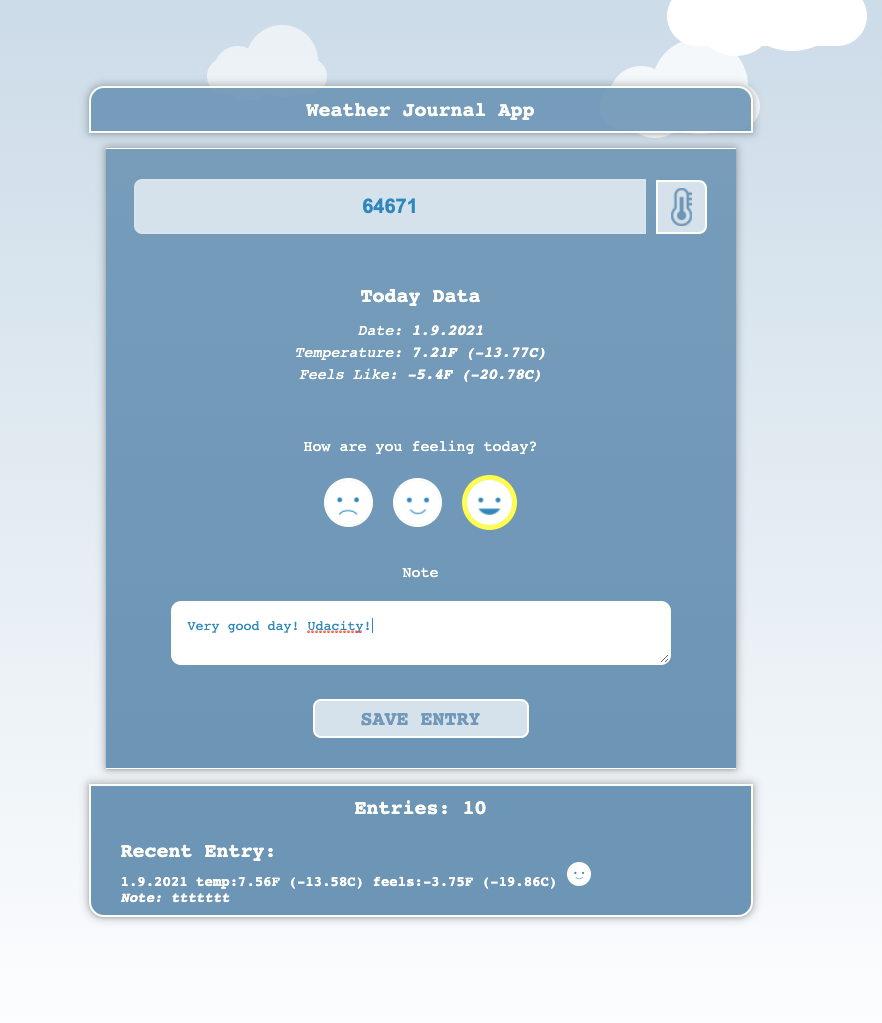
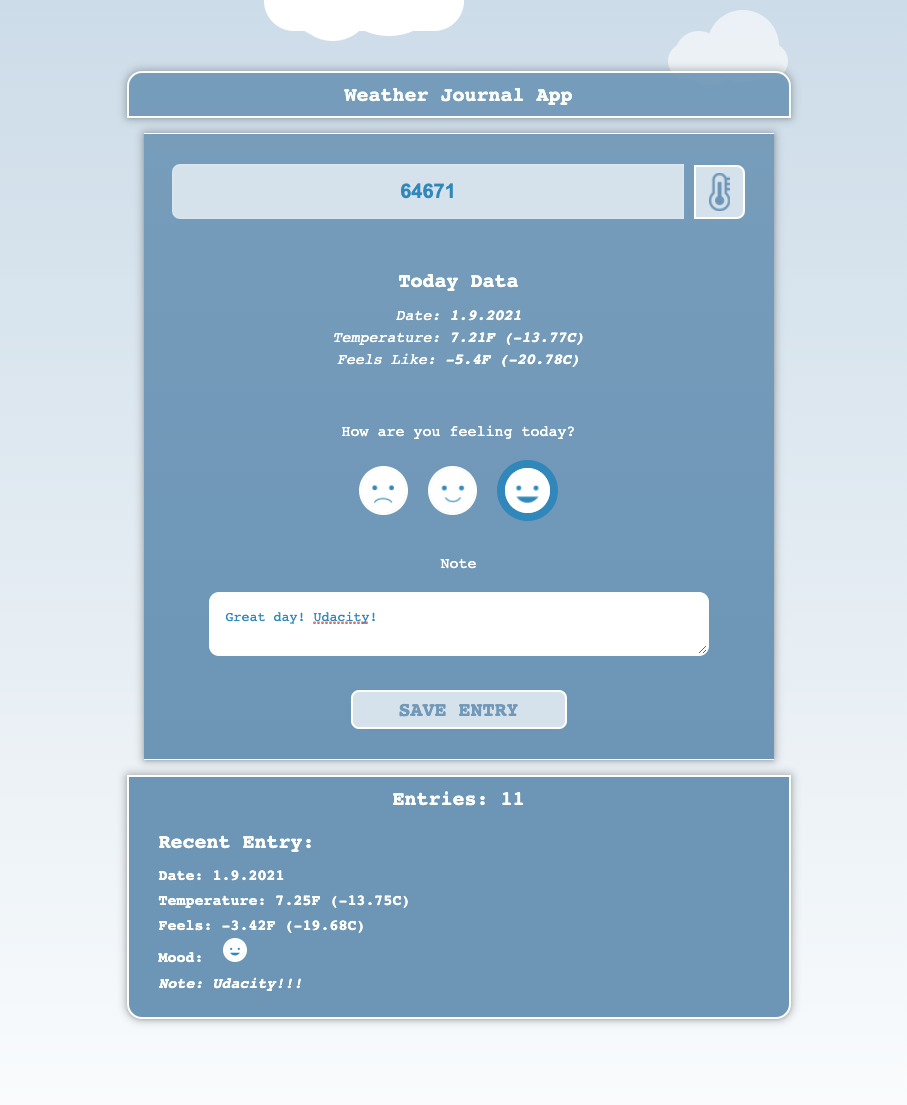
update
fix img

Changed region(s): [[0.0918, 0.0, 0.9796, 0.9394]]

diff --git a/project-3-weather-journal-app/weather-journal-app/website/app.js b/project-3-weather-journal-app/weather-journal-app/website/app.js
@@ -211,10 +211,10 @@ function createEntryLoad(recentDate, recentTemperature, recentFeelLike, recentMo
         recentMood = "unknown";
     }
 
-    let entryStack = recentDate + " " + "temp:" + fahrenheitTemp + "F (" + celciusTemp + "C) " + "feels:" + fahrenheitFeelsTemp + "F (" + celciusFeelsTemp + "C)" + recentMood;
+    let entryStack = "<b>Date:</b> "+recentDate + "<br><b>Temperature:</b> " + fahrenheitTemp + "F (" + celciusTemp + "C) " + "<br><b>Feels:</b> " + fahrenheitFeelsTemp + "F (" + celciusFeelsTemp + "C)" + "<br><b>Mood:</b> " + recentMood;
 
     document.getElementById("recents_entries").innerHTML = entryStack;
-    document.getElementById("recents_note").innerHTML = "Note: " + recentNote;
+    document.getElementById("recents_note").innerHTML = "<b>Note:</b> " + recentNote;
 }
 
 // Dynamically creating EventListener for Mood Selection.

diff --git a/project-3-weather-journal-app/weather-journal-app/website/css/web-layout.css b/project-3-weather-journal-app/weather-journal-app/website/css/web-layout.css
@@ -183,16 +183,20 @@
 
 #recents_entries {
     text-align: left;
-    font-size: 14px;
+    font-size: 15px;
+    line-height: 25px;
+    
 }
 
 #recents_entries img{
     height: 20px;
 }
 #recents_note {
+    padding-top: 5px;
     text-align: left;
-    font-size: 14px;
+    font-size: 15px;
     font-style: italic;
+    padding-bottom: 15px;
 }
 
 #feelings {
@@ -212,8 +216,7 @@
 
 .last_entry {
     text-align: left;
-
-
+    padding-bottom: 10px;
 }
 
 .buttonImage {
@@ -234,8 +237,8 @@
 }
 
 .activeSmile {
-    border-color: yellow;
-    border-width: 5px;
+    border-color: #1888be;
+    border-width: 8px;
 }
 
 .selectorSmiles {

diff --git a/project-3-weather-journal-app/README.md b/project-3-weather-journal-app/README.md
@@ -18,6 +18,13 @@ This project requires you to create an asynchronous web app that uses Web API an
 - [x] How to chain Promises together
 - [x] How to access HTML elements with JavaScript and set their properties dynamically
 
+## Developement Strategy Used :speech_balloon:
+- [x] Setting up project environment, making sure Node and packages installed, and included in server.js file.
+- [x] Added POST and GET routes to ensure correct retrieval of data from the server.
+- [x] Acquired API credentials from OpenWeatherMap website.
+- [x] Created async functions to fetch weather data and store it on my local server.
+- [x] Set up a function that updated UI dynamically.
+
 ## Architecture
 The project have a structure like the one shown below. App successfully renders a home page with clear design and functionality added when index.html is loaded in the browser. No errors displayed in console.
 
@@ -59,9 +66,18 @@ Landing Page preview links are active. From generated link you can view active L
 - [Landing Page: Index](https://mindaugas-karla.github.io/Front-End-Web-Developer-Nanodegree/project-3-weather-journal-app/weather-journal-app/website/index.html)
 
 ### Testing
+To get the project up and running follow the steps below:
+- Open Terminal & navigate to project folder
 ```
 cd project-3-weather-journal-app
 cd weather-journal-app
+```
+- To set up project environment, make sure that the Node and packages (Express, Cors and Body-Parser) installed, and which are used to create the server.
+- After that to start your server, run the command node server.js in your terminal
+```
 node server.js
 ```
+
+
+
 
